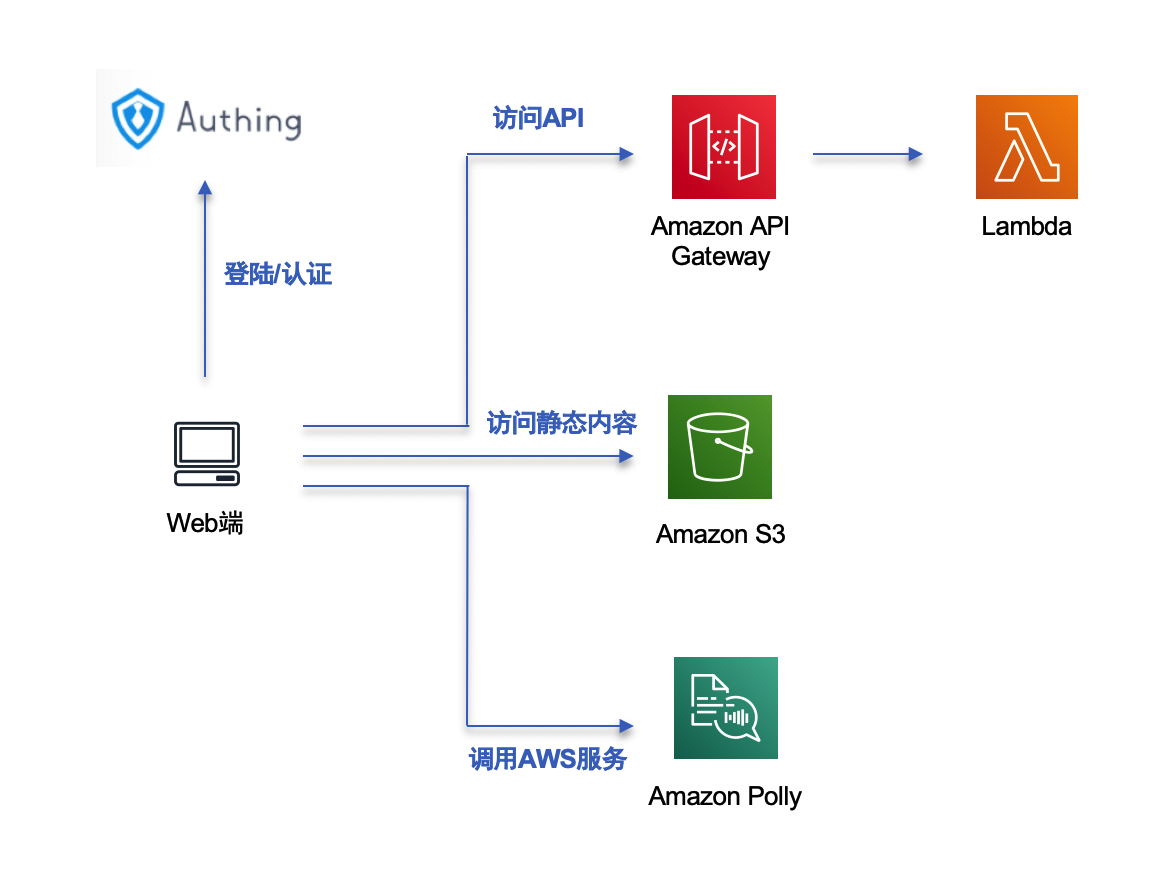
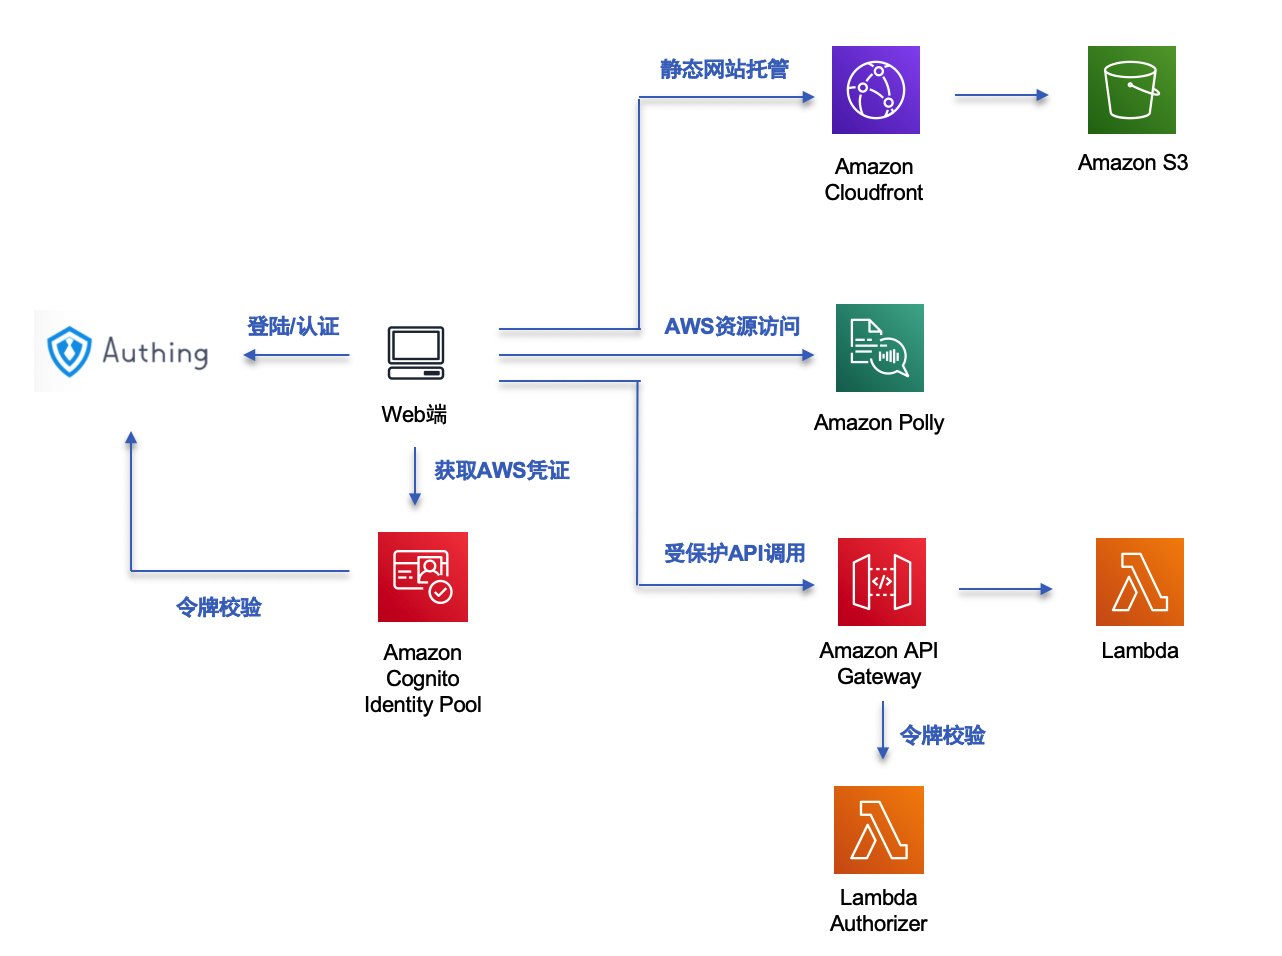
Chnage Architecture Diagram

diff --git a/README.md b/README.md
@@ -15,10 +15,12 @@ https://authing.demo.cbuilder.tech/
 ## 整体架构
 
 演示网站整体架构如下：
-* 通过S3进行静态网站托管
-* 演示通过Authing进行登陆认证
-* 演示访问API Gateway提供的REST API
-* 演示访问AWS Polly服务
+* 通过S3进行静态网站托管, 并利用Cloudfront进行静态内容加速和HTTPS证书挂载
+* 通过Authing进行登陆认证，做为User Pool的替代方案
+* 通过Authing认证后获取令牌：
+* * 访问API Gateway提供的REST API
+* * 通过Cognito Identity Pool获取临时AWS凭证，访问AWS资源（这里以Polly服务为例)
+
 
 <img src="frontend/imgs/architecture.png" width=800 align=center>
 
